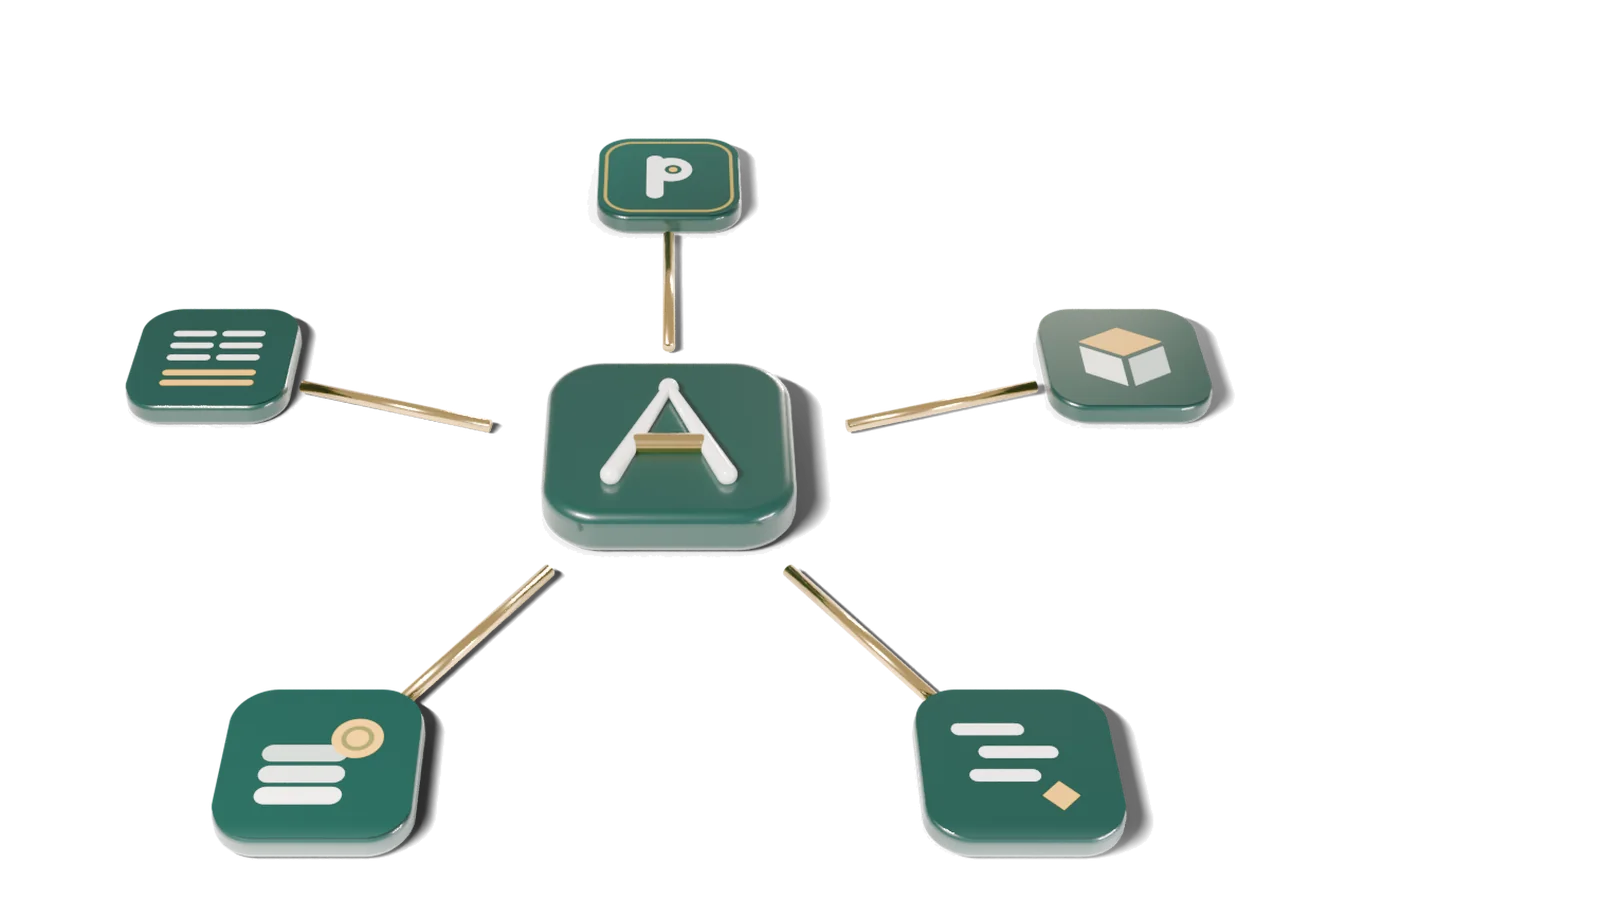
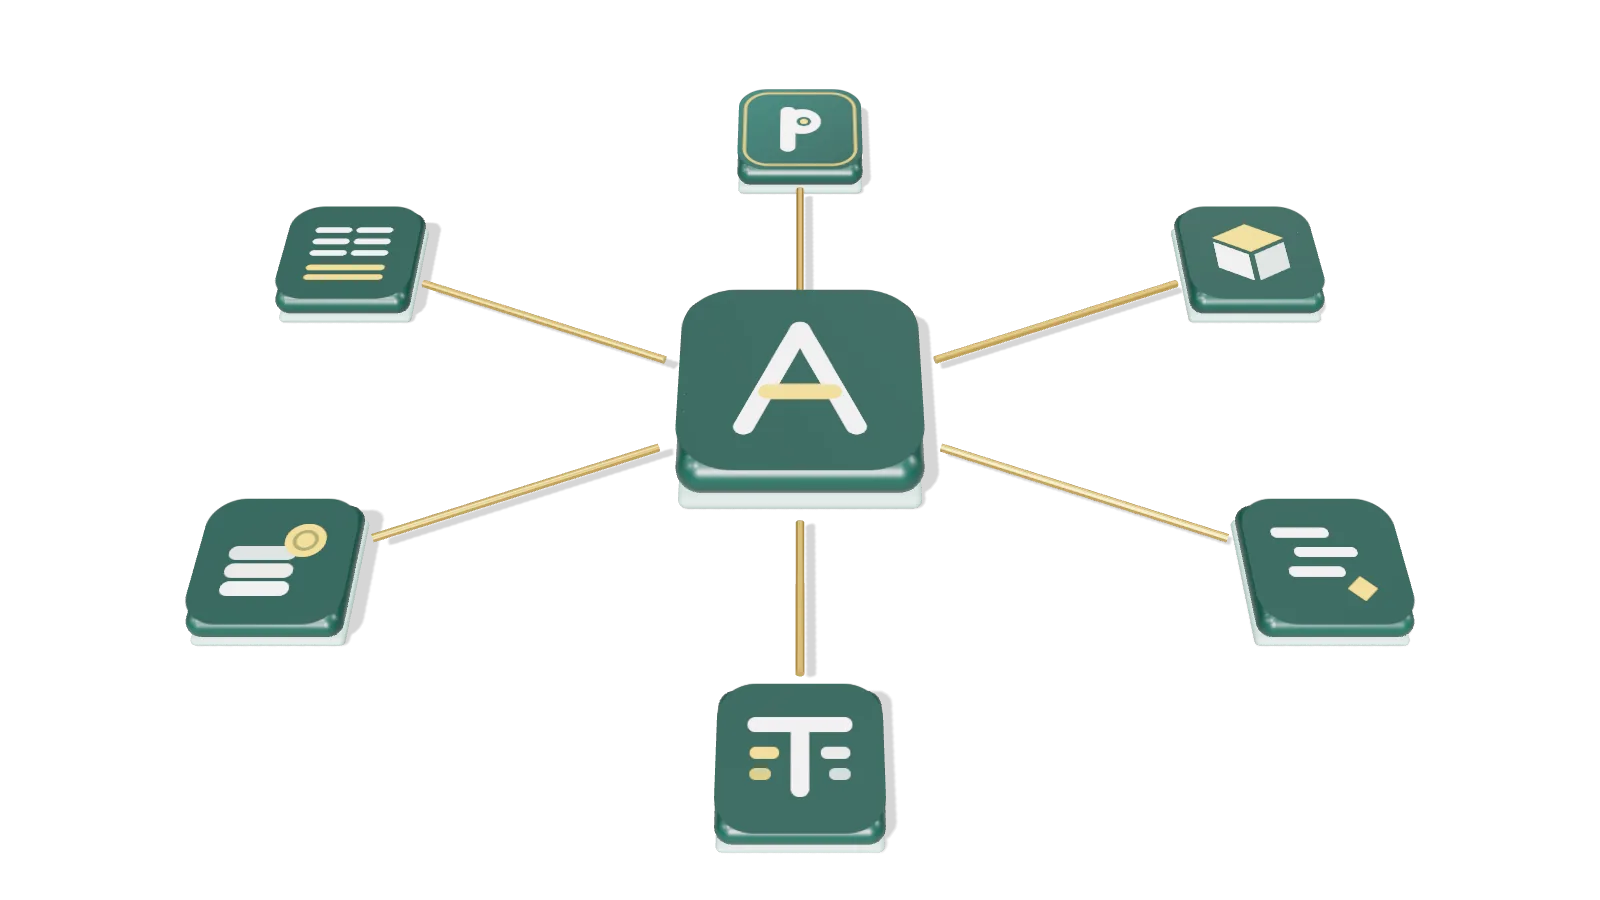
Compta sur ameriack.com : sixième logiciel de la suite
- Fiche Compta dans « Nos logiciels » (comptabilité générale SYSCOHADA : saisie guidée, caisse et paie reprises, sans réseau), avec essai gratuit et lien vers compta.ameriack.com
- Visuel 3D de Compta fait à partir d'une capture réelle avec des données fictives
- Schéma « Une suite reliée » refait à six logiciels ; carte « Des comptes sans ressaisie » (Caisse → Compta → États Financiers)
- « Six logiciels » partout : accroche, descriptions, compte Ameriack, Démarrer ; Compta dans le bandeau et le pied de page
- Alternance des fiches recalée ; cache du schéma renouvelé

Claude-Session: https://claude.ai/code/session_01JPW55u4it87rY1ba2XrqZU

Changed region(s): [[0.0625, 0.0933, 0.9062, 0.9644], [0.3125, 0.3422, 0.375, 0.3733]]

diff --git a/index.html b/index.html
@@ -4,7 +4,7 @@
 <meta charset="utf-8">
 <meta name="viewport" content="width=device-width, initial-scale=1">
 <title>Ameriack I.T. Solutions — Logiciels de gestion pour les entreprises du Gabon</title>
-<meta name="description" content="Paie, états financiers, caisse, chantiers et opérations : la suite Ameriack, conçue au Gabon pour les entreprises gabonaises. Sur le web, sur téléphone et sous Windows. Essai gratuit de 30 jours.">
+<meta name="description" content="Paie, comptabilité, états financiers, caisse, chantiers et opérations : la suite Ameriack, conçue au Gabon pour les entreprises gabonaises. Sur le web, sur téléphone et sous Windows. Essai gratuit de 30 jours.">
 <link rel="canonical" href="https://www.ameriack.com/">
 <meta name="theme-color" content="#0F3D36">
 <link rel="icon" href="assets/brand/favicon.svg" type="image/svg+xml">
@@ -15,7 +15,7 @@
 <meta property="og:locale" content="fr_FR">
 <meta property="og:site_name" content="Ameriack I.T. Solutions">
 <meta property="og:title" content="Ameriack I.T. Solutions — la suite de gestion des entreprises gabonaises">
-<meta property="og:description" content="PaieGabon, États Financiers, Caisse, Projets et Ops : cinq logiciels conçus au Gabon, reliés entre eux. Essai gratuit de 30 jours.">
+<meta property="og:description" content="PaieGabon, Compta, États Financiers, Caisse, Projets et Ops : six logiciels conçus au Gabon, reliés entre eux. Essai gratuit de 30 jours.">
 <meta property="og:url" content="https://www.ameriack.com/">
 <meta property="og:image" content="https://www.ameriack.com/assets/brand/partage-1200x630.png">
 <meta property="og:image:width" content="1200">
@@ -64,7 +64,7 @@
       <span class="surtitre">Conçu au Gabon, pour le Gabon</span>
       <h1 id="titre-accueil">La gestion de votre entreprise, <em>au franc près.</em></h1>
       <p class="chapo">Ameriack I.T. Solutions édite la suite de logiciels qui fait tourner les entreprises gabonaises :
-        paie, états financiers, caisse, chantiers et opérations. Cinq outils reliés entre eux, sur le web, sur téléphone et sous Windows.</p>
+        paie, comptabilité, états financiers, caisse, chantiers et opérations. Six outils reliés entre eux, sur le web, sur téléphone et sous Windows.</p>
       <div class="actions">
         <a class="btn btn-vert" href="#solutions">Choisir un logiciel</a>
         <a class="btn btn-ligne" href="https://wa.me/24174584772" target="_blank" rel="noopener">Écrire sur WhatsApp</a>
@@ -82,8 +82,9 @@
            alt="Un ordinateur portable affiche le tableau de bord de PaieGabon, un téléphone le portail salarié ; autour flottent les symboles de la suite Ameriack : Caisse, États Financiers, Projets et Ops.">
     </figure>
   </div>
-  <nav class="bandeau-suite wrap" aria-label="Les cinq logiciels">
+  <nav class="bandeau-suite wrap" aria-label="Les six logiciels">
     <a href="#paiegabon"><img src="assets/apps/paiegabon.svg" alt="" width="32" height="32">PaieGabon</a>
+    <a href="#compta"><img src="assets/apps/compta.svg" alt="" width="32" height="32">Compta</a>
     <a href="#etats"><img src="assets/apps/etats.svg" alt="" width="32" height="32">États Financiers</a>
     <a href="#caisse"><img src="assets/apps/caisse.svg" alt="" width="32" height="32">Caisse</a>
     <a href="#projets"><img src="assets/apps/projets.svg" alt="" width="32" height="32">Projets</a>
@@ -96,7 +97,7 @@
   <div class="wrap">
     <div class="tete apparait">
       <span class="surtitre">Nos logiciels</span>
-      <h2 id="titre-solutions">Cinq logiciels, une même rigueur</h2>
+      <h2 id="titre-solutions">Six logiciels, une même rigueur</h2>
       <p>Chaque outil règle un problème concret de l'entreprise gabonaise, dans le respect de la réglementation locale.
         Commencez par celui dont vous avez besoin, ajoutez les autres quand vous voulez.</p>
     </div>
@@ -124,7 +125,30 @@
       </div>
     </article>
 
-    <article class="produit inverse apparait" id="etats">
+    <article class="produit inverse apparait" id="compta">
+      <figure class="produit-visuel" data-relief>
+        <img src="assets/visuels/compta-1200.webp" srcset="assets/visuels/compta-700.webp 700w, assets/visuels/compta-1200.webp 1200w"
+             sizes="(max-width: 980px) 100vw, 600px" width="1200" height="760" loading="lazy" decoding="async"
+             alt="Le tableau de bord de Compta : exercice en cours, tâches à traiter et résultat provisoire, avec le symbole du logiciel au premier plan.">
+      </figure>
+      <div class="produit-texte">
+        <div class="produit-tete"><img src="assets/apps/compta.svg" alt="" width="48" height="48">
+          <div><h3>Compta</h3><div class="domaine">Comptabilité générale SYSCOHADA</div></div></div>
+        <p class="accroche">Votre comptabilité tenue au jour le jour, sans ressaisie.</p>
+        <p>Saisie guidée ou experte, contrôles avant validation : la caisse et la paie arrivent déjà en écritures, et la balance part dans États Financiers.</p>
+        <ul class="coches">
+          <li><b>Saisie guidée</b> des opérations courantes, ou pièce par pièce</li>
+          <li><b>Caisse et paie</b> reprises en brouillard, sans doublon</li>
+          <li><b>Sans réseau</b> : saisie hors connexion, envoyée au retour du réseau</li>
+        </ul>
+        <div class="actions">
+          <a class="btn btn-or btn-petit" href="https://compta.ameriack.com/inscription">Essai gratuit</a>
+          <a class="btn btn-ligne btn-petit" href="https://compta.ameriack.com">Découvrir</a>
+        </div>
+      </div>
+    </article>
+
+    <article class="produit apparait" id="etats">
       <figure class="produit-visuel" data-relief>
         <img src="assets/visuels/etats-1200.webp" srcset="assets/visuels/etats-700.webp 700w, assets/visuels/etats-1200.webp 1200w"
              sizes="(max-width: 980px) 100vw, 600px" width="1200" height="760" loading="lazy" decoding="async"
@@ -147,7 +171,7 @@
       </div>
     </article>
 
-    <article class="produit apparait" id="caisse">
+    <article class="produit inverse apparait" id="caisse">
       <figure class="produit-visuel" data-relief>
         <img src="assets/visuels/caisse-1200.webp" srcset="assets/visuels/caisse-700.webp 700w, assets/visuels/caisse-1200.webp 1200w"
              sizes="(max-width: 980px) 100vw, 600px" width="1200" height="760" loading="lazy" decoding="async"
@@ -170,7 +194,7 @@
       </div>
     </article>
 
-    <article class="produit inverse apparait" id="projets">
+    <article class="produit apparait" id="projets">
       <figure class="produit-visuel" data-relief>
         <img src="assets/visuels/projets-1200.webp" srcset="assets/visuels/projets-700.webp 700w, assets/visuels/projets-1200.webp 1200w"
              sizes="(max-width: 980px) 100vw, 600px" width="1200" height="760" loading="lazy" decoding="async"
@@ -193,7 +217,7 @@
       </div>
     </article>
 
-    <article class="produit apparait" id="ops">
+    <article class="produit inverse apparait" id="ops">
       <figure class="produit-visuel" data-relief>
         <img src="assets/visuels/ops-1200.webp" srcset="assets/visuels/ops-700.webp 700w, assets/visuels/ops-1200.webp 1200w"
              sizes="(max-width: 980px) 100vw, 600px" width="1200" height="760" loading="lazy" decoding="async"
@@ -229,9 +253,9 @@
       <p>Les logiciels Ameriack se parlent : moins de ressaisie, moins d'erreurs, des chiffres qui concordent.</p>
     </div>
     <figure class="suite-visuel apparait" data-relief>
-      <img src="assets/visuels/suite-1600.webp" srcset="assets/visuels/suite-900.webp 900w, assets/visuels/suite-1600.webp 1600w"
+      <img src="assets/visuels/suite-1600.webp?v=2026.11.26" srcset="assets/visuels/suite-900.webp?v=2026.11.26 900w, assets/visuels/suite-1600.webp?v=2026.11.26 1600w"
            sizes="(max-width: 980px) 100vw, 900px" width="1600" height="900" loading="lazy" decoding="async"
-           alt="Le symbole Ameriack au centre, relié par des liens dorés aux cinq logiciels : PaieGabon, États Financiers, Caisse, Projets et Ops.">
+           alt="Le symbole Ameriack au centre, relié par des liens dorés aux six logiciels : PaieGabon, Ops, Projets, Compta, Caisse et États Financiers.">
     </figure>
     <div class="liens">
       <div class="lien apparait">
@@ -242,12 +266,12 @@
       <div class="lien apparait">
         <div class="paire"><img src="assets/brand/symbole.svg" alt="Compte Ameriack" width="36" height="36"><i></i><img src="assets/apps/paiegabon.svg" alt="PaieGabon" width="36" height="36"><img src="assets/apps/ops.svg" alt="Ops" width="36" height="36"></div>
         <h3>Un seul compte pour tout</h3>
-        <p>Votre compte Ameriack ouvre les cinq logiciels avec la même adresse et le même mot de passe. Votre entreprise y porte une référence unique qui relie vos données d'un logiciel à l'autre.</p>
+        <p>Votre compte Ameriack ouvre les six logiciels avec la même adresse et le même mot de passe. Votre entreprise y porte une référence unique qui relie vos données d'un logiciel à l'autre.</p>
       </div>
       <div class="lien apparait">
-        <div class="paire"><img src="assets/apps/caisse.svg" alt="Caisse" width="36" height="36"><i class="plus"></i><img src="assets/apps/etats.svg" alt="États Financiers" width="36" height="36"></div>
-        <h3>Une trésorerie justifiée</h3>
-        <p>La caisse est tenue au jour le jour, les banques sont rapprochées chaque mois : à la clôture, chaque solde de trésorerie est expliqué.</p>
+        <div class="paire"><img src="assets/apps/caisse.svg" alt="Caisse" width="36" height="36"><i></i><img src="assets/apps/compta.svg" alt="Compta" width="36" height="36"><i></i><img src="assets/apps/etats.svg" alt="États Financiers" width="36" height="36"></div>
+        <h3>Des comptes sans ressaisie</h3>
+        <p>Les mouvements de la caisse et la paie arrivent dans Compta en écritures, la banque y est rapprochée chaque mois, et la balance part dans États Financiers pour la DSF.</p>
       </div>
     </div>
   </div>
@@ -303,7 +327,7 @@
       <h2 id="titre-demarrer">Opérationnel en trois étapes</h2>
     </div>
     <ol class="etapes">
-      <li class="apparait"><h3>Créez votre compte Ameriack</h3><p>En ligne, en quelques minutes : <a href="https://compte.ameriack.com/inscription">un seul compte</a> pour les cinq logiciels, avec la même adresse et le même mot de passe. L'essai est gratuit pendant 30 jours, sans engagement.</p></li>
+      <li class="apparait"><h3>Créez votre compte Ameriack</h3><p>En ligne, en quelques minutes : <a href="https://compte.ameriack.com/inscription">un seul compte</a> pour les six logiciels, avec la même adresse et le même mot de passe. L'essai est gratuit pendant 30 jours, sans engagement.</p></li>
       <li class="apparait"><h3>Paramétrez votre entreprise</h3><p>Votre société, vos utilisateurs, vos données de départ. Nous vous accompagnons sur WhatsApp si besoin.</p></li>
       <li class="apparait"><h3>Abonnez-vous</h3><p>Choisissez votre offre et réglez par mobile money, virement ou espèces : votre accès continue sans interruption.</p></li>
     </ol>
@@ -343,6 +367,7 @@
       <ul>
         <li><a href="https://compte.ameriack.com">Mon compte Ameriack</a></li>
         <li><a href="https://paiegabon.com">PaieGabon</a></li>
+        <li><a href="https://compta.ameriack.com">Compta Ameriack</a></li>
         <li><a href="https://etats.ameriack.com">États Financiers</a></li>
         <li><a href="https://caisse.ameriack.com">Caisse Ameriack</a></li>
         <li><a href="https://projets.ameriack.com">Projets Ameriack</a></li>

diff --git a/README.md b/README.md
@@ -8,7 +8,7 @@ Page statique, servie sur https://www.ameriack.com (aucun serveur d'application,
 - `assets/site.css`, `assets/site.js` : styles, menu mobile, apparition au défilement et léger relief des visuels (souris uniquement, coupé si « moins d'animations »).
 - `assets/visuels/` : rendus 3D (Blender Cycles) en WebP, deux tailles chacun. Écrans = vraies captures des logiciels, données de démonstration.
 - `assets/brand/` : identité Ameriack I.T. Solutions (logo, logo inversé, symbole, favicon, icônes, image de partage 1200×630).
-- `assets/apps/` : symboles des cinq logiciels (repris de chaque application).
+- `assets/apps/` : symboles des six logiciels (repris de chaque application).
 - `assets/fonts/` : Fraunces et IBM Plex Sans, hébergées sur le site (licence SIL OFL).
 - `site.webmanifest`, `robots.txt`, `sitemap.xml`.
 
